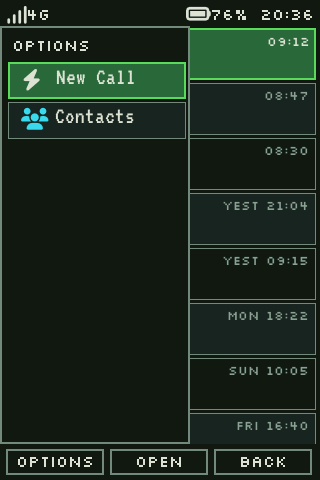
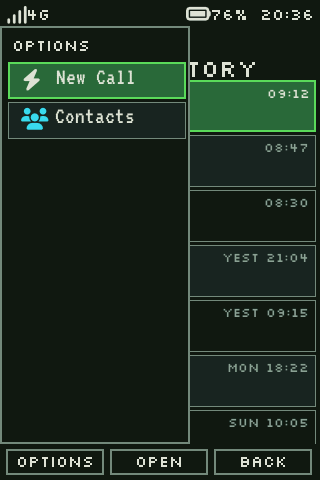
dumbphone/ui: pages say their names, and the Headers role reaches the bar

diff --git a/firmware/ui/ui_shell.c b/firmware/ui/ui_shell.c
@@ -575,6 +575,9 @@ static void update_softkeys(const keymap_t *km)
     }
 }
 
+/* HEADERS face at the cap's own size (defined with the font accessors). */
+static lv_font_t *softkey_face(void);
+
 static void build_softkey_bar(lv_obj_t *parent)
 {
     lv_obj_t *bar = lv_obj_create(parent);
@@ -609,7 +612,11 @@ static void build_softkey_bar(lv_obj_t *parent)
          * static-text swap fits the label's first layout. */
         sk_lbl[i] = lv_label_create(box);
         lv_label_set_text_static(sk_lbl[i], "OPTIONS");
-        lv_obj_set_style_text_font(sk_lbl[i], f_chrome, 0);
+        /* The caps take the HEADERS *face* (Eli, 27/11): pick Jersey for the
+         * headers and the bar follows. The size stays the bar's own — a 32 px
+         * header face cannot fit a 36 px bar without moving every frame, and
+         * the bar is a fixed-height strip by design. */
+        lv_obj_set_style_text_font(sk_lbl[i], softkey_face(), 0);
         lv_obj_set_style_text_color(sk_lbl[i], C_TEXT, 0);
         lv_obj_center(sk_lbl[i]);
     }
@@ -1170,6 +1177,16 @@ lv_font_t *ui_font_of(ui_font_role_t role)
     default:              return f_body_l;
     }
 }
+/* The HEADERS face at the cap's own size: the bar follows the chosen family
+ * without needing to grow. Falls back to the chrome face if the face cannot
+ * be loaded at that size. */
+static lv_font_t *softkey_face(void)
+{
+    ui_font_pref_t p = ui_font_pref(UI_FONT_HEADER);
+    lv_font_t *f = role_face(UI_FONT_HEADER, p.face, UI_FONT_CHROME_PX);
+    return f ? f : f_chrome;
+}
+
 lv_font_t *ui_font_icon(void)     { return f_icon; }
 lv_font_t *ui_font_icon_s(void)   { return f_icon_s; }
 
@@ -1327,6 +1344,7 @@ static void restyle_frame(void)
             lv_obj_set_style_bg_color(sk_cap[i], C_GROUND, 0);
             lv_obj_set_style_border_color(sk_cap[i], C_BORDER, 0);
             lv_obj_set_style_text_color(sk_lbl[i], C_TEXT, 0);
+            lv_obj_set_style_text_font(sk_lbl[i], softkey_face(), 0);
         }
     }
 }
@@ -1338,6 +1356,8 @@ static void restyle_frame(void)
 static void appearance_apply(void)
 {
     sync_role_fonts();
+
+
     restyle_frame();
     ui_menu_restyle();
     ui_sidebar_restyle();

diff --git a/firmware/ui/ui_menu.c b/firmware/ui/ui_menu.c
@@ -31,7 +31,6 @@
 #define TRAY_Y        UI_TRAY_Y
 #define TITLE_Y       UI_TITLE_Y
 #define ROWS_Y        UI_ROWS_Y     /* item rows start (with a strip)     */
-#define ROWS_Y_NC     UI_ROWS_Y_NC  /* item rows start (no strip)         */
 #define ROW_H         UI_ROW_H
 #define ROW_INSET_X   UI_ROW_INSET_X
 #define ROW_INSET_W   UI_ROW_INSET_W
@@ -519,13 +518,20 @@ list_page_t *ui_list_build(lv_obj_t *parent, menu_t *m)
         for (int i = 0; i < n; i++) {
             style_cell(p, i);
         }
+    } else if (m->title) {
+        /* No category strip, but the page still has a name. Without it two
+         * four-row settings pages are visually identical, so DISPLAY reads
+         * as a second copy of SETTINGS rather than a page inside it
+         * (Eli, 27/11). Same slot as a strip page's title. */
+        p->title_lbl = mk_center_label(p->root, m->title, ui_font_title(),
+                                       C_TEXT, TITLE_Y);
     }
 
     /* --- scrollable row area: long lists (e.g. the chat list) hold more
      * items than fit on screen; short lists simply never scroll. The box is
      * a native LVGL scroll target, so pointer drags (swipes) scroll it for
      * free once gestures are wired. */
-    int y0 = m->cats ? ROWS_Y : ROWS_Y_NC;
+    int y0 = ROWS_Y;   /* strip or title: both live in the header slot */
     p->rows_box = lv_obj_create(p->root);
     lv_obj_set_size(p->rows_box, PANEL_W, CONTENT_H - y0);
     lv_obj_set_pos(p->rows_box, 0, y0);
@@ -653,7 +659,7 @@ void ui_menu_relayout(void)
         }
         lv_obj_set_size(p->root, PANEL_W, CONTENT_H);
         if (p->rows_box) {
-            int y0 = p->m->cats ? ROWS_Y : ROWS_Y_NC;
+            int y0 = ROWS_Y;
             lv_obj_set_pos(p->rows_box, 0, y0);
             lv_obj_set_size(p->rows_box, PANEL_W, CONTENT_H - y0);
         }

diff --git a/firmware/ui/ui_geometry.h b/firmware/ui/ui_geometry.h
@@ -40,7 +40,7 @@ bool ui_geom_softkeys(void);
 
 /* Derived layout metrics — computed from the panel size above: */
 int ui_status_h(void);    /* pinned status bar height (top)          */
-int ui_softkey_h(void);   /* pinned softkey bar height (bottom)      */
+int ui_softkey_h(void);   /* softkey bar height (bottom)             */
 int ui_content_y(void);   /* content area top edge                   */
 int ui_content_h(void);   /* content area height                     */
 int ui_row_h(void);       /* list row height (menu renderer)         */

diff --git a/firmware/ui/ui_theme.h b/firmware/ui/ui_theme.h
@@ -93,7 +93,6 @@ extern "C" {
 #define UI_TRAY_CELL_H     26
 #define UI_TITLE_Y         28   /* centered category title row          */
 #define UI_ROWS_Y          54   /* rows start (page HAS a strip)        */
-#define UI_ROWS_Y_NC        2   /* rows start (page has NO strip)       */
 
 /* Grid layout (LAYOUT_GRID): the classic 3-wide app grid, one cell per item
  * in reading order. Both layouts render the same `items` data. */

diff --git a/docs/ui-architecture.md b/docs/ui-architecture.md
@@ -472,8 +472,12 @@ A third entry under Display, beside Theme and Menu Style: *Font*, cycling the UI
 decision** — Eli tunes them himself as the design settles. So the wave ships the *mechanism* and a
 sensible default, not a finely-argued opinion about which face wins.
 
-- The choices are the body typeface; the chrome face (Silkscreen) is part of the product's identity
-  and stays fixed unless Eli says otherwise. Flag it rather than assume silently.
+- **What the Headers role owns** (Eli, 27/11): page banners *and* the soft-key caps. The caps take the
+  chosen family at the bar's own size (16 px) — a 32 px face cannot fit a 36 px bar without moving
+  every frame. The banner takes face and size; at the 32 px step it is tight against the first row,
+  so a flexible header slot is the follow-up (Stage B), not a reason to shrink the face.
+  Every list page draws its name — pages without a category strip used to draw none, which made
+  Settings and Display look like the same window twice.
 - Offer at least three faces, with the size alongside them (e.g. *Pixelify 16*, *Jersey 10*,
   *DotGothic 16*), because size affects legibility more than face does at this panel density.
 - Faces may be baked at 1bpp (crisp) or 8bpp (antialiased); both are legitimate *options* — the
